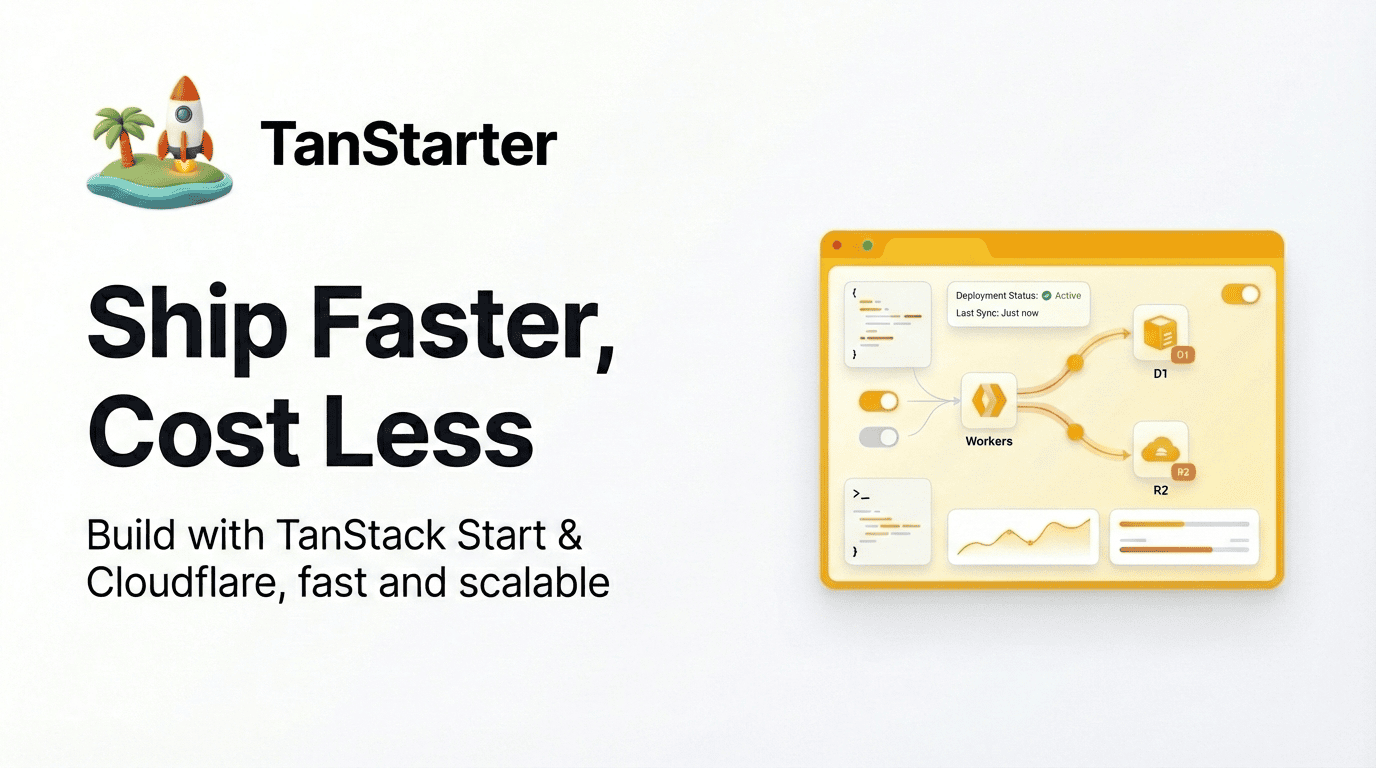
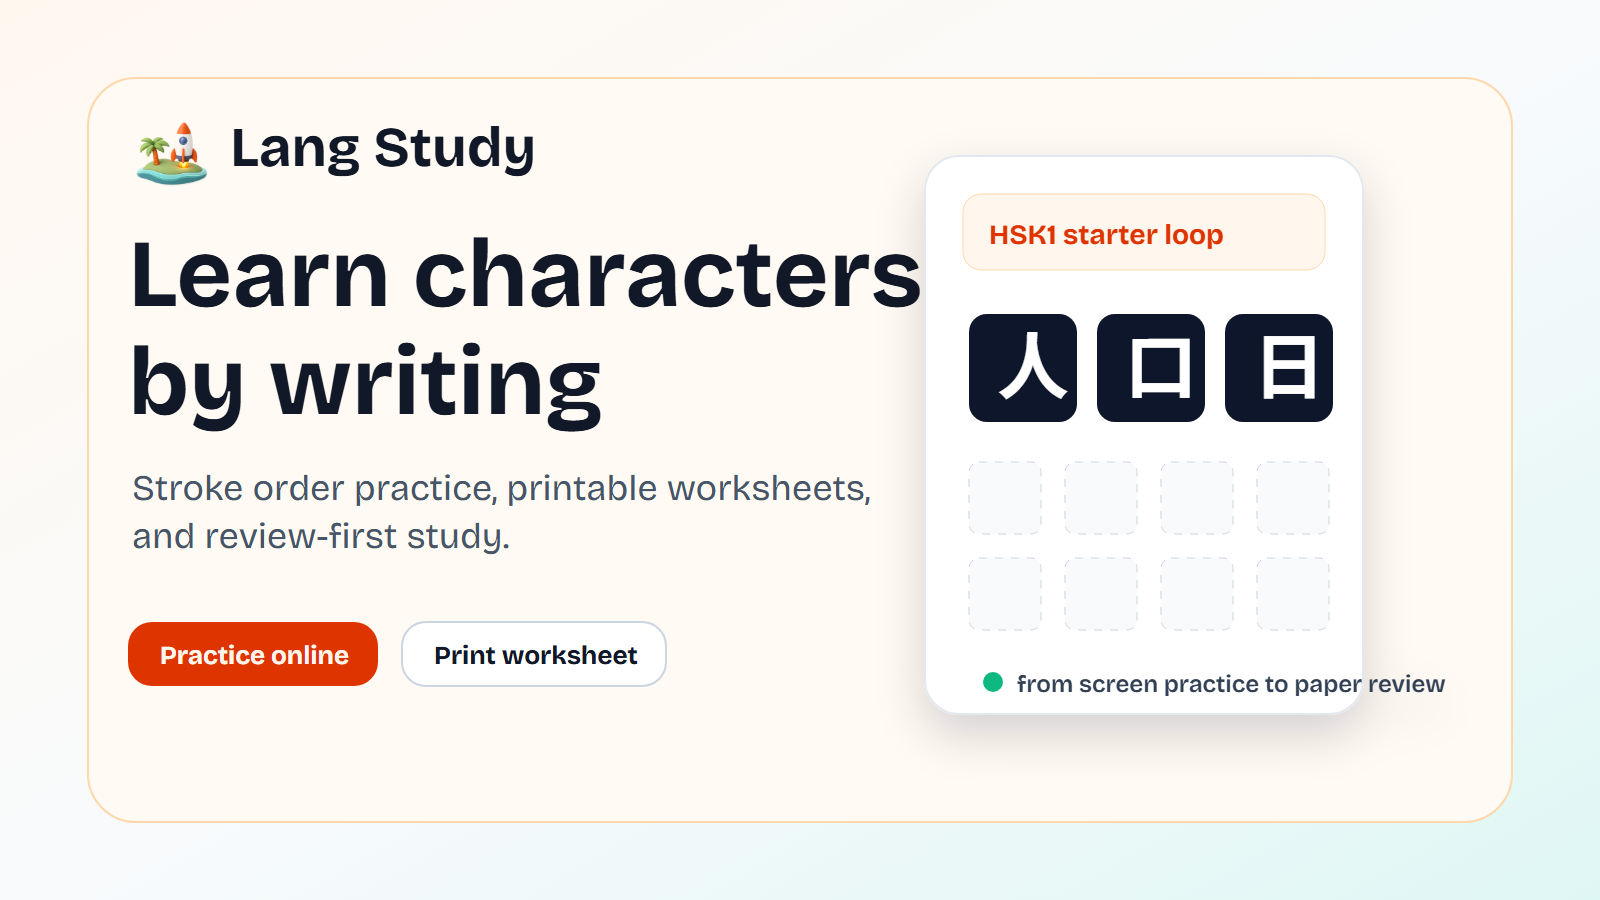
fix(ui): polish roadmap and blog visuals

diff --git a/src/components/blog/blog-post-visual.tsx b/src/components/blog/blog-post-visual.tsx
@@ -1,0 +1,148 @@
+import type { BlogPost } from '@/lib/blog';
+import { cn } from '@/lib/utils';
+
+type VisualTone = 'hsk' | 'learning' | 'worksheets';
+
+const visualCopy: Record<
+  VisualTone,
+  {
+    accent: string;
+    characters: string[];
+    footer: Record<'en' | 'zh', string>;
+    label: Record<'en' | 'zh', string>;
+  }
+> = {
+  hsk: {
+    accent: 'bg-primary',
+    characters: ['人', '口', '日'],
+    footer: {
+      en: 'HSK1 stroke loop',
+      zh: 'HSK1 笔顺练习',
+    },
+    label: {
+      en: 'Starter characters',
+      zh: '入门汉字',
+    },
+  },
+  learning: {
+    accent: 'bg-emerald-600',
+    characters: ['写', '读', '复'],
+    footer: {
+      en: 'Screen to paper',
+      zh: '从屏幕到纸面',
+    },
+    label: {
+      en: 'Learning method',
+      zh: '学习方法',
+    },
+  },
+  worksheets: {
+    accent: 'bg-sky-600',
+    characters: ['田', '字', '格'],
+    footer: {
+      en: 'Printable practice',
+      zh: '打印练习纸',
+    },
+    label: {
+      en: 'Worksheet flow',
+      zh: '练习纸流程',
+    },
+  },
+};
+
+export function BlogPostVisual({
+  className,
+  post,
+  size = 'card',
+}: {
+  className?: string;
+  post: BlogPost;
+  size?: 'card' | 'hero';
+}) {
+  const tone = getVisualTone(post);
+  const copy = visualCopy[tone];
+  const isHero = size === 'hero';
+  const locale = post.locale === 'zh' ? 'zh' : 'en';
+
+  return (
+    <div
+      aria-hidden="true"
+      className={cn(
+        'relative aspect-video overflow-hidden bg-[#fff8ef] text-zinc-950',
+        className
+      )}
+    >
+      <div className="absolute inset-0 bg-[linear-gradient(135deg,#fff8ef_0%,#f8fafc_52%,#e0f2fe_100%)]" />
+      <div className="absolute inset-x-4 top-4 flex items-center justify-between text-[11px] font-semibold uppercase text-zinc-600 sm:inset-x-5 sm:top-5">
+        <span>Lang Study</span>
+        <span>{copy.label[locale]}</span>
+      </div>
+
+      <div className="absolute left-4 top-12 w-[44%] sm:left-5 sm:top-14">
+        <div className="grid grid-cols-3 gap-1.5 sm:gap-2">
+          {copy.characters.map((character, index) => (
+            <div
+              className={cn(
+                'flex aspect-square items-center justify-center rounded-md border border-zinc-200 bg-white text-3xl font-bold shadow-sm sm:text-5xl',
+                isHero && 'sm:text-6xl'
+              )}
+              key={`${character}-${index}`}
+            >
+              {character}
+            </div>
+          ))}
+        </div>
+        <div className="mt-3 grid grid-cols-4 gap-1.5">
+          {Array.from({ length: 8 }).map((_, index) => (
+            <span
+              className="aspect-square rounded-sm border border-dashed border-zinc-300 bg-white/70"
+              key={index}
+            />
+          ))}
+        </div>
+      </div>
+
+      <div className="absolute bottom-4 right-4 top-12 w-[43%] rounded-lg border border-zinc-200 bg-white/88 p-3 shadow-sm sm:bottom-5 sm:right-5 sm:top-14 sm:p-4">
+        <div className="flex h-full flex-col justify-between gap-3">
+          <div className="space-y-2">
+            <div className={cn('h-1.5 w-12 rounded-full', copy.accent)} />
+            <div className="h-2 w-4/5 rounded-full bg-zinc-200" />
+            <div className="h-2 w-3/5 rounded-full bg-zinc-200" />
+          </div>
+          <div className="grid grid-cols-3 gap-1.5">
+            {Array.from({ length: 9 }).map((_, index) => (
+              <span
+                className="aspect-square rounded-sm border border-zinc-200 bg-zinc-50"
+                key={index}
+              />
+            ))}
+          </div>
+          <div className="flex items-center gap-2">
+            <span className={cn('size-2 rounded-full', copy.accent)} />
+            <span className="text-[11px] font-semibold text-zinc-700">
+              {copy.footer[locale]}
+            </span>
+          </div>
+        </div>
+      </div>
+    </div>
+  );
+}
+
+function getVisualTone(post: BlogPost): VisualTone {
+  const text = `${post.category} ${post.title}`.toLowerCase();
+
+  if (
+    text.includes('worksheet') ||
+    text.includes('classroom') ||
+    text.includes('练习纸')
+  ) {
+    return 'worksheets';
+  }
+
+  if (text.includes('hsk')) {
+    return 'hsk';
+  }
+
+  return 'learning';
+}

diff --git a/src/components/blog/blog-card.tsx b/src/components/blog/blog-card.tsx
@@ -1,6 +1,7 @@
 import type { BlogPost } from '@/lib/blog';
 import { Link } from '@tanstack/react-router';
 import { formatDate } from '@/lib/formatter';
+import { BlogPostVisual } from '@/components/blog/blog-post-visual';
 import {
   Card,
   CardContent,
@@ -15,19 +16,10 @@ export function BlogCard({ post }: { post: BlogPost }) {
   return (
     <Link to="/blog/$slug" params={{ slug }} className="h-full">
       <Card className="h-full py-0 transition-[box-shadow,ring-color] hover:shadow-md dark:hover:ring-foreground/20">
-        {post.image && (
-          <div className="aspect-video w-full overflow-hidden rounded-t-xl bg-muted">
-            <img
-              src={post.image}
-              alt={post.title}
-              className="size-full object-cover transition-transform hover:scale-[1.05]"
-              width={1280}
-              height={720}
-              loading="lazy"
-              decoding="async"
-            />
-          </div>
-        )}
+        <BlogPostVisual
+          post={post}
+          className="rounded-t-xl transition-transform group-hover/card:scale-[1.02]"
+        />
         <CardHeader className="flex flex-row items-center justify-between gap-2 pt-4 pb-0">
           <span className="rounded-full bg-muted px-2.5 py-0.5 text-xs font-medium text-muted-foreground capitalize">
             {post.category}

diff --git a/src/routes/blog/$slug.tsx b/src/routes/blog/$slug.tsx
@@ -1,4 +1,5 @@
 import { Markdown } from '@/components/markdown/markdown';
+import { BlogPostVisual } from '@/components/blog/blog-post-visual';
 import Container from '@/components/layout/container';
 import { Badge } from '@/components/ui/badge';
 import { buttonVariants } from '@/components/ui/button';
@@ -89,15 +90,11 @@ function BlogPostPage() {
               {post.description}
             </p>
           </div>
-          <div className="aspect-[16/9] overflow-hidden rounded-lg border bg-muted">
-            <img
-              src={post.image}
-              alt={post.title}
-              className="size-full object-cover"
-              width={1280}
-              height={720}
-            />
-          </div>
+          <BlogPostVisual
+            post={post}
+            size="hero"
+            className="rounded-lg border"
+          />
         </header>
         <Markdown
           content={post.content}

diff --git a/src/routes/(pages)/roadmap.tsx b/src/routes/(pages)/roadmap.tsx
@@ -77,15 +77,15 @@ function RoadmapPage() {
   ];
 
   return (
-    <Container className="px-4 py-12 md:py-16">
-      <div className="mx-auto max-w-6xl space-y-12 pb-16">
-        <section className="grid gap-8 lg:grid-cols-[minmax(0,1fr)_minmax(320px,420px)] lg:items-end">
+    <Container className="px-4 pt-10 pb-12 md:pt-12 md:pb-14">
+      <div className="mx-auto max-w-6xl space-y-10 pb-14">
+        <section className="grid gap-8 lg:grid-cols-[minmax(0,1fr)_minmax(320px,420px)] lg:items-start">
           <div className="min-w-0 space-y-5">
             <p className="text-sm font-semibold uppercase tracking-normal text-primary">
               {m.roadmap_eyebrow()}
             </p>
             <div className="space-y-4">
-              <h1 className="max-w-3xl text-3xl font-bold tracking-tight text-balance md:text-5xl">
+              <h1 className="max-w-3xl text-3xl font-bold text-balance md:text-5xl">
                 {m.roadmap_title()}
               </h1>
               <p className="max-w-3xl text-lg leading-8 text-muted-foreground">